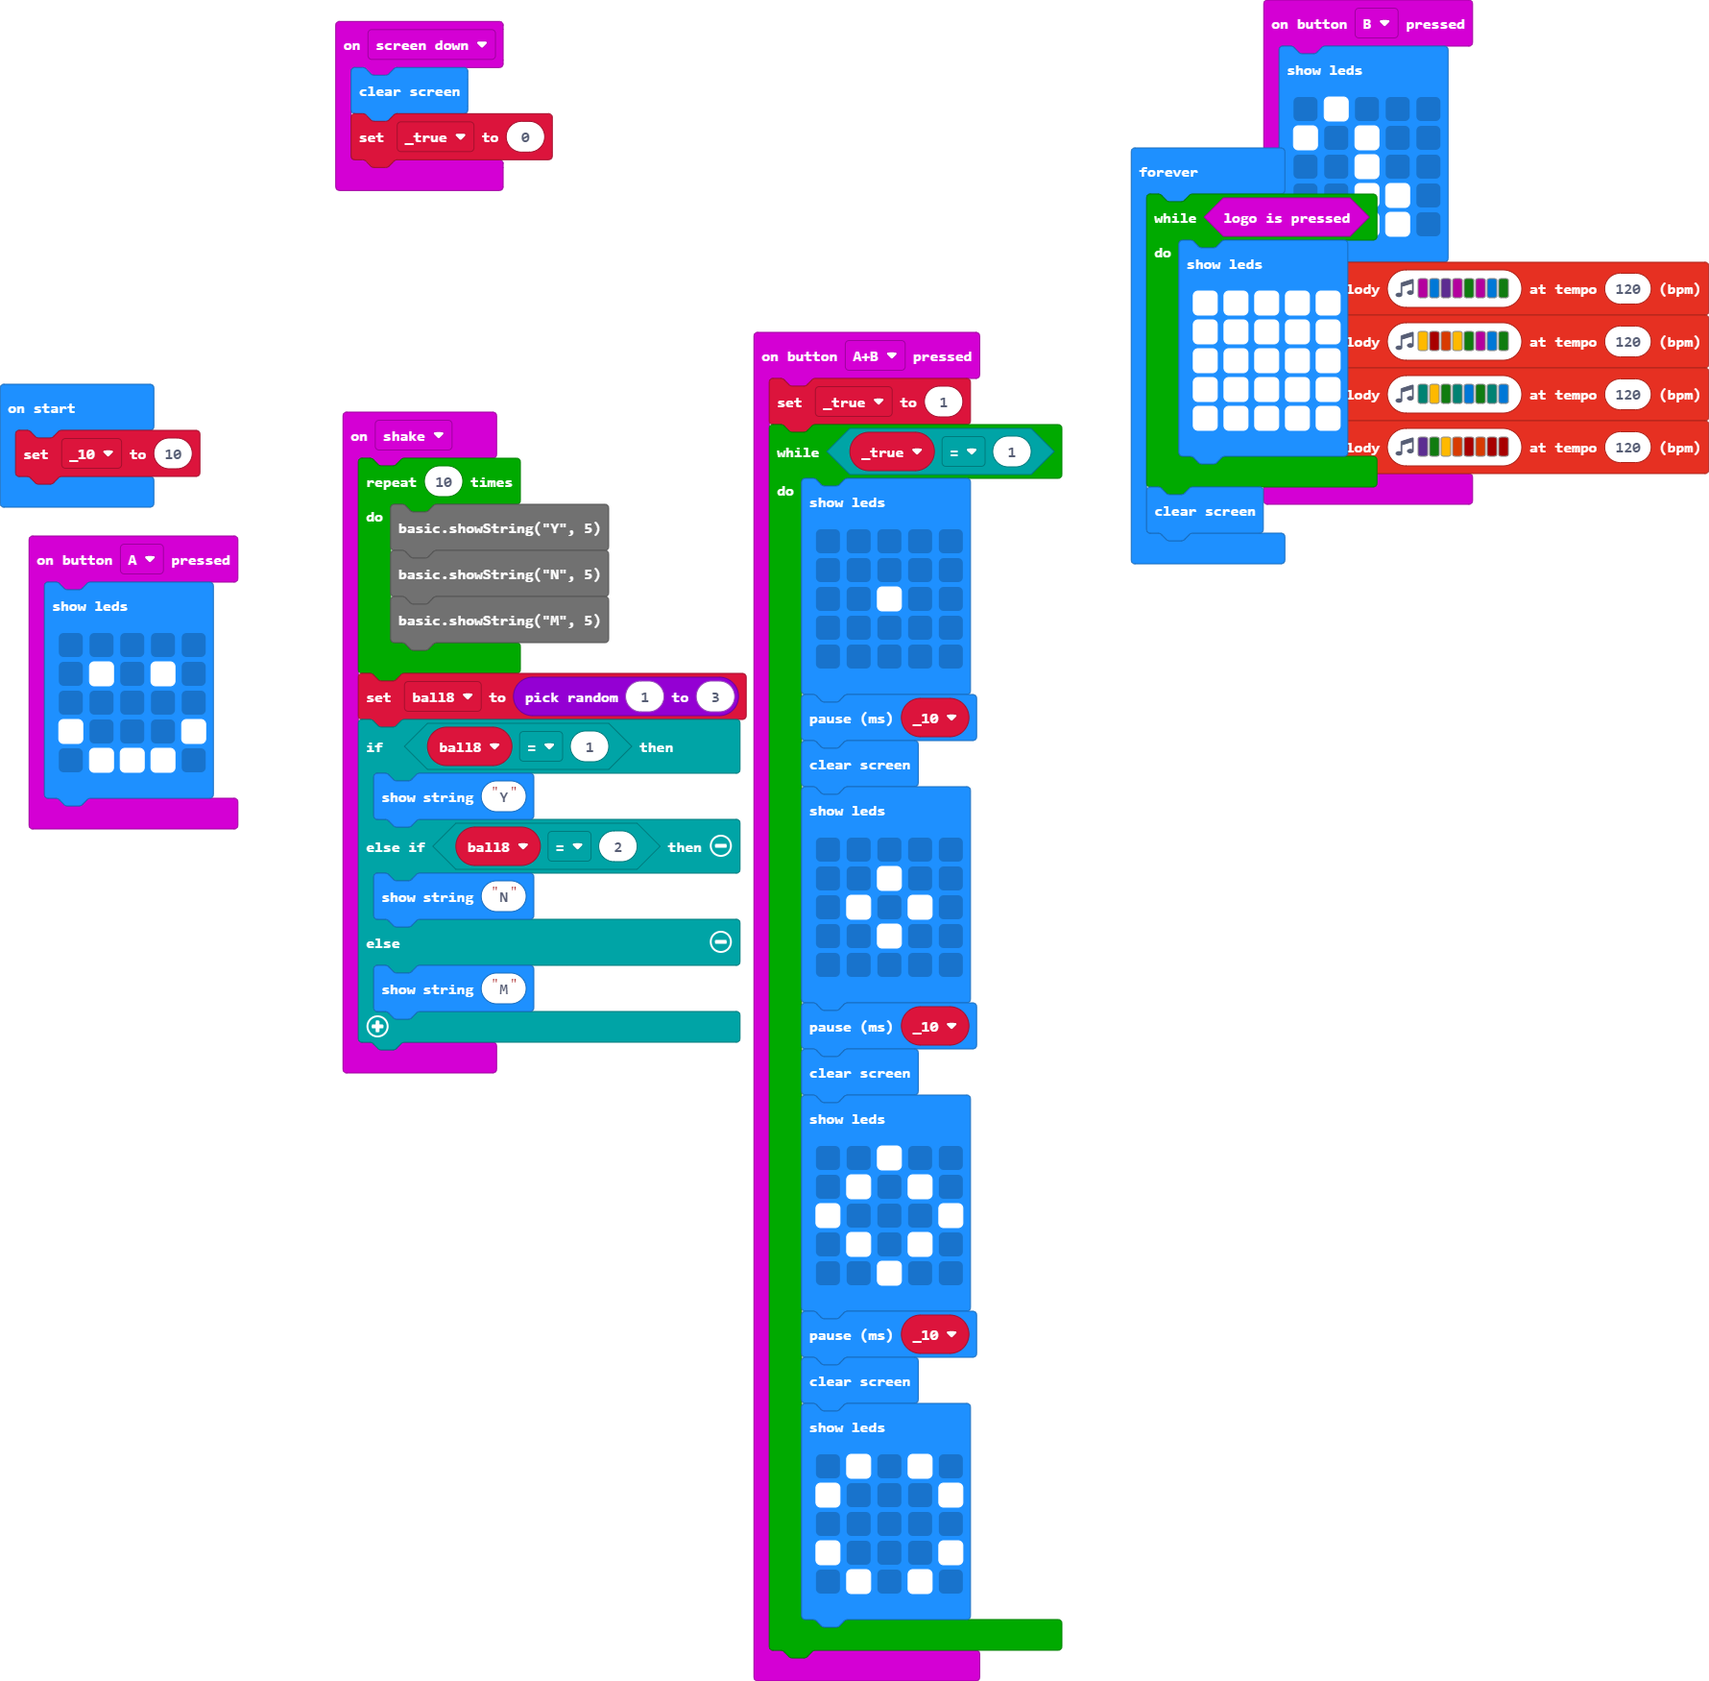
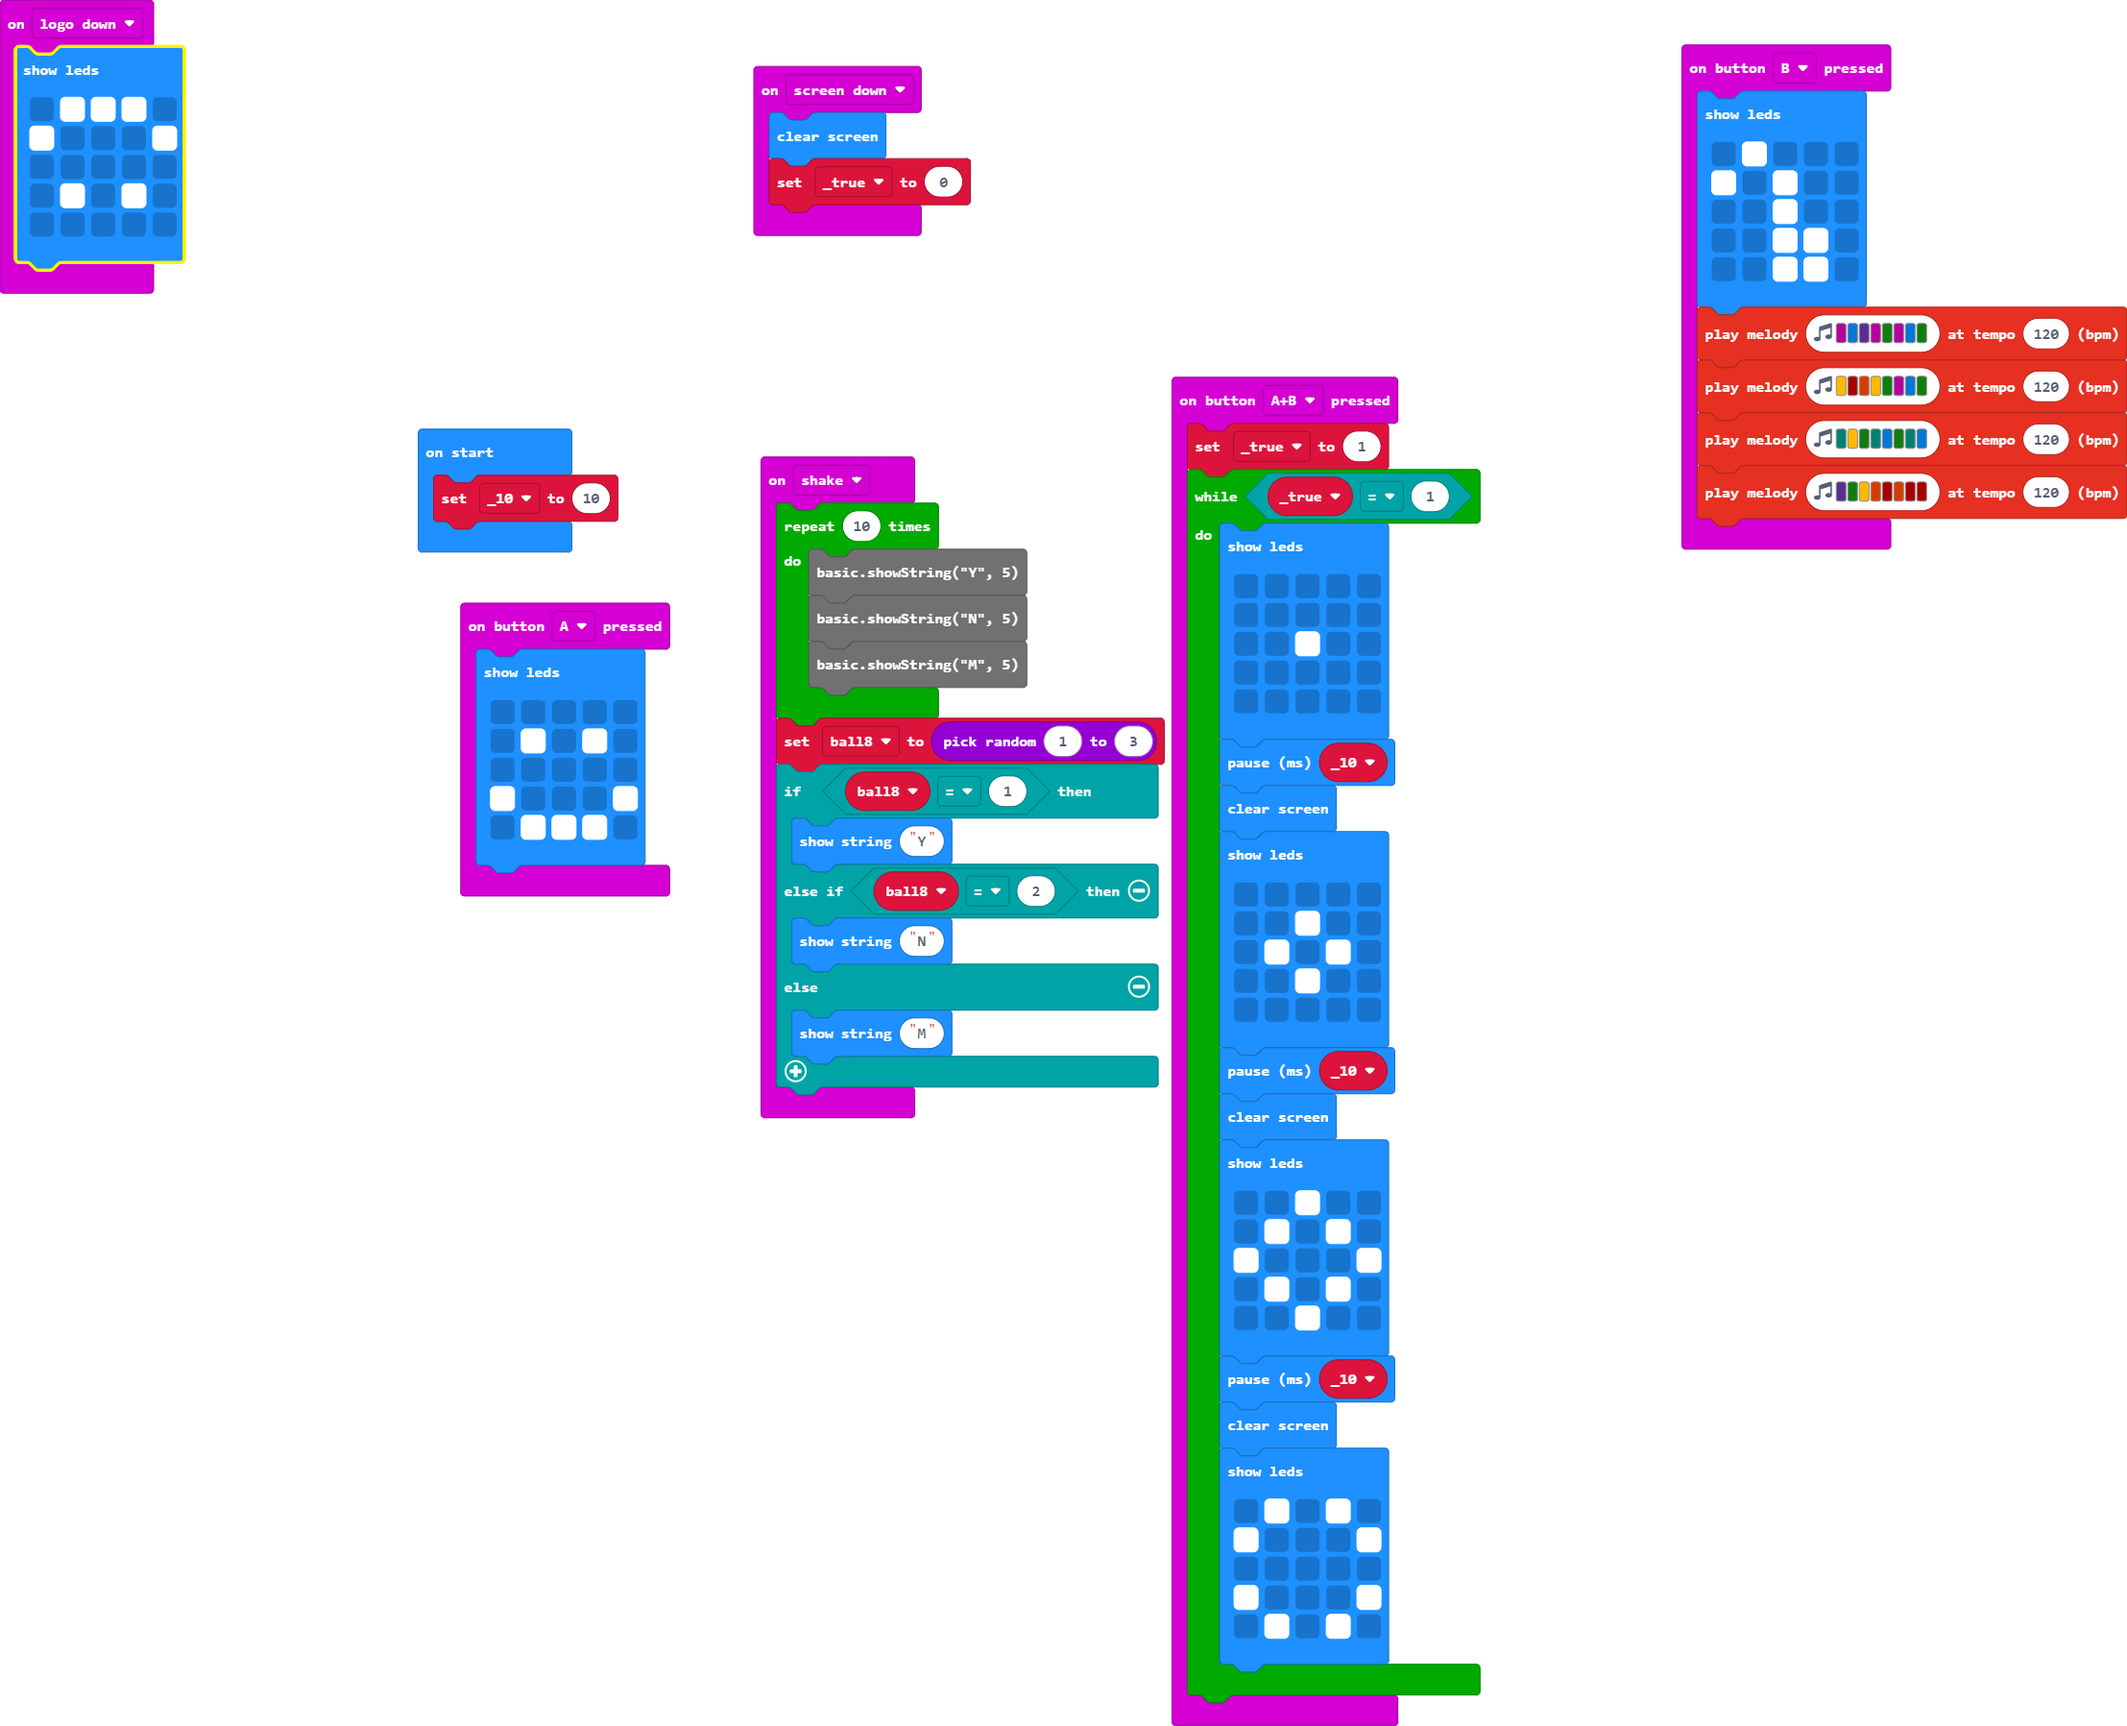
Update main.blocks, main.ts

diff --git a/main.ts b/main.ts
@@ -78,19 +78,16 @@ basic.showString("M", 5)
         basic.showString("M")
     }
 })
+input.onGesture(Gesture.LogoDown, function () {
+    basic.showLeds(`
+        . # # # .
+        # . . . #
+        . . . . .
+        . # . # .
+        . . . . .
+        `)
+})
 let ball8 = 0
 let _true = 0
 let _10 = 0
 _10 = 10
-basic.forever(function () {
-    while (input.logoIsPressed()) {
-        basic.showLeds(`
-            # # # # #
-            # # # # #
-            # # # # #
-            # # # # #
-            # # # # #
-            `)
-    }
-    basic.clearScreen()
-})
